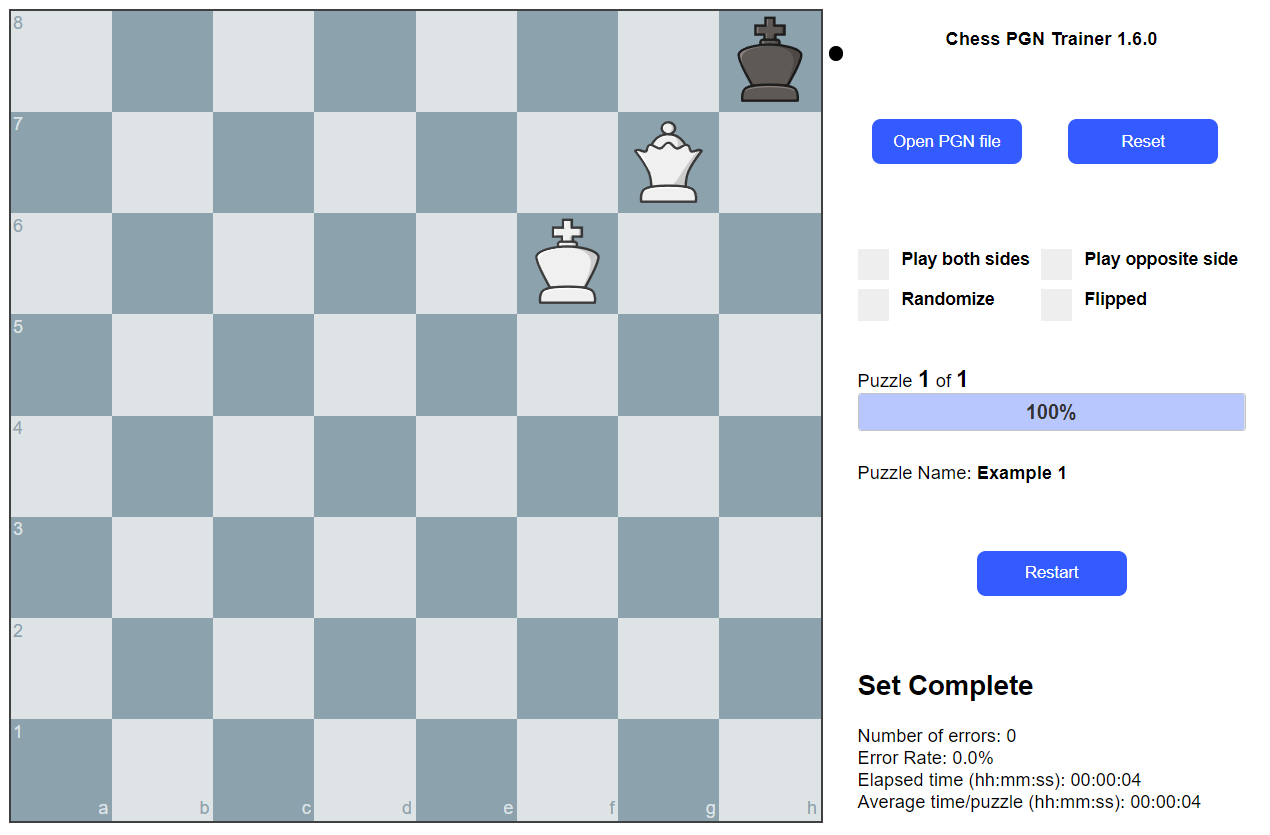
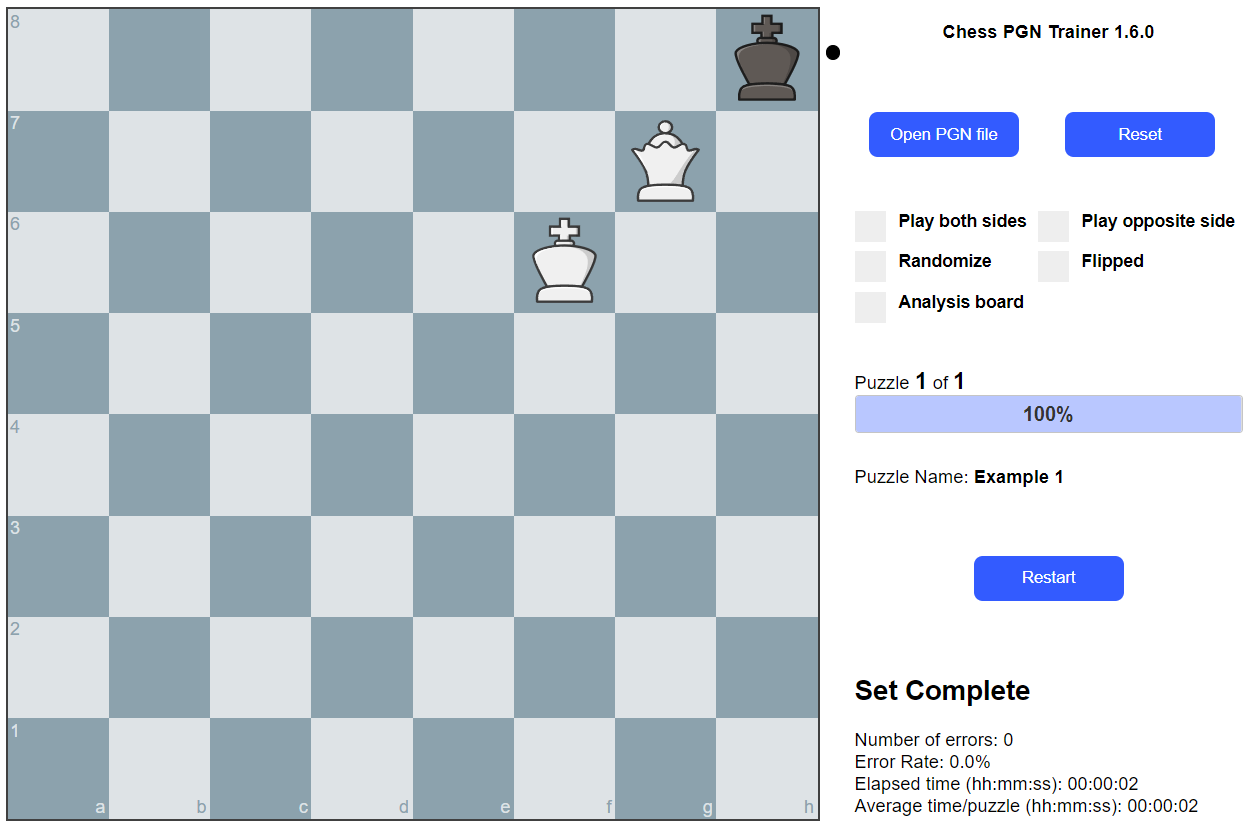
Updates and fixes

diff --git a/assets/Chess-PGN-Trainer.js b/assets/Chess-PGN-Trainer.js
@@ -22,7 +22,7 @@ let blankboard;
 let pieceTheme;
 let game;
 let config;
-let OutputFEN = false;
+let AnalysisLink = false;
 
 // Game & Performance variables
 let moveCfg;
@@ -377,9 +377,7 @@ function parsepgn(PGNData) {
 			if (tags.PGNTrainerOppositeSide === '1') {$( "#playoppositeside" ).prop( "checked", true );}
 			if (tags.PGNTrainerRandomize === '1') {$( "#randomizeSet" ).prop( "checked", true );}
 			if (tags.PGNTrainerFlipped === '1') {$( "#flipped" ).prop( "checked", true );}
-
-			// Set the debug flag if specified in the PGN
-			if (tags.PGNTrainerOutputFEN === '1') {OutputFEN = true;}
+			if (tags.PGNTrainerAnalysisLink === '1') {$( "#analysisboard" ).prop( "checked", true );}
 
 			const puzzle = {};
 			puzzle.Event = (tags.Event);
@@ -448,11 +446,15 @@ function setCheckboxSelectability(state) {
 		if ($('#flipped').prop('disabled')) {
 			$('#flipped').removeAttr('disabled');
 		}
+		if ($('#analysisboard').prop('disabled')) {
+			$('#analysisboard').removeAttr('disabled');
+		}
 	} else {
 		$('#playbothsides').attr('disabled', true);
 		$('#playoppositeside').attr('disabled', true);
 		$('#randomizeSet').attr('disabled', true);
 		$('#flipped').attr('disabled', true);
+		$('#analysisboard').attr('disabled', true);
 	}
 }
 
@@ -526,11 +528,13 @@ function loadPuzzle(PGNPuzzle) {
 	// Update the screen with the value of the PGN Event tag (if any)
 	$('#puzzlename').text(PGNPuzzle.Event);
 
+	if($('#analysisboard').is(':checked')) {AnalysisLink = true;}
+
 	// Output a link to a lichess analysis board for this puzzle (can extract FEN from there if needed)
 	lichessFEN = PGNPuzzle.FEN.replace(/ /g,"_")
 	lichessURL = '<A HREF="https://lichess.org/analysis/' + PGNPuzzle.FEN.replace(/ /g,"_") +'" target="_blank">Analysis</A>'
 
-	if (OutputFEN) {
+	if (AnalysisLink) {
 		$('#puzzlename').html(PGNPuzzle.Event + "<br><center>" + lichessURL);
 	}
 
@@ -672,7 +676,7 @@ function resetgame() {
 	pauseDateTimeTotal = 0;
 	error = false;
 	setcomplete = false;
-	OutputFEN = false;
+	AnalysisLink = false;
 
 	// Create the boards
 	board = new Chessboard('myBoard', config);
@@ -707,6 +711,8 @@ function resetgame() {
 	$('#playoppositeside').prop('checked', false);
 	$('#randomizeSet').prop('checked', false);
 	$('#flipped').prop('checked', false);
+	$('#analysisboard').prop('checked', false);
+	
 
 	// Clear any prior results/statistics
 	clearmessages();

diff --git a/index.html b/index.html
@@ -114,7 +114,7 @@
 					</tr>
 
 					<tr>
-						<td colspan="2" class="tdspacer2"> </td>
+						<td colspan="2" class="tdspacer1"> </td>
 					</tr>
 
 					<tr>
@@ -145,6 +145,16 @@
 								<span class="checkmark"></span>
 							</label>
 						</td>
+					</tr>
+
+					<tr>
+						<td class="tdspacer1">
+							<label class="container">Analysis board
+								<input type="checkbox" id="analysisboard">
+								<span class="checkmark"></span>
+							</label>
+						</td>
+						
 					</tr>
 					
 					<tr>
